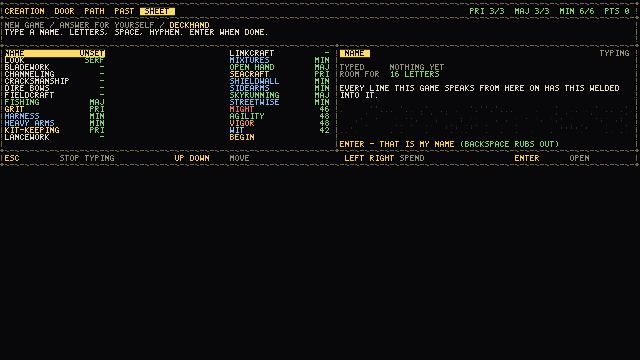
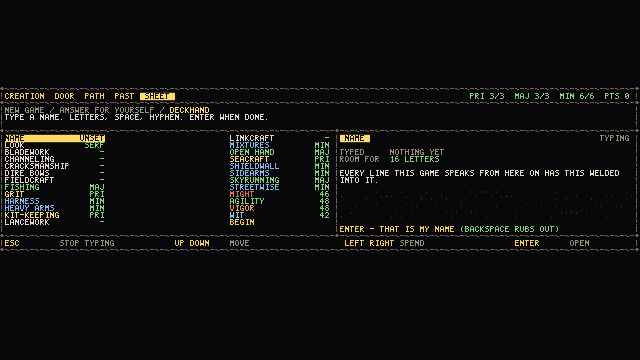
docs: the placement pass, its frames, and the six demo stills that moved
The ruler gains two sections -- where a composed page now SITS, and the
keyboard's own grid -- both measured on the shipped binary at 640x360, which is
the size this file should always have been judged at.

The seat is 45/55 and the three candidates were LOOKED AT rather than reasoned
about. The ground outside these panels is flat, so re-seating the same captured
panel at another ratio is an exact mock of what the binary would draw: 50/50
sits visibly low, 40/60 reads top-heavy, 45/55 reads placed. Both alternatives
are committed beside the frame that was taken.

Two corrections to what the previous ship note predicted, recorded rather than
quietly dropped:

  * the panels did NOT get smaller. The dead space is the same number of
    pixels; it is margin on both sides now instead of a hole underneath.
  * the tight grid did NOT shorten the NAME page. Its height is set by the
    detail pane, about nine rows, and the grid was never the tall half.

Six demo stills moved and every one is a page this pass re-seated -- the two
casebook frames and four creation steps. The other sixteen are byte-identical
across two capture runs that are themselves byte-identical to each other.

creation-origin.png dropped for the ninth run in a row and was re-taken through
--creation=origin instead. The substitution is now PROVEN rather than assumed:
the stale committed frame is byte-for-byte what --creation=origin produced on
the old binary, so the two paths photograph the same composition.

diff --git a/docs/SHIP-NOTE.md b/docs/SHIP-NOTE.md
@@ -1,5 +1,12 @@
 # Ship note — read this first
 
+**The placement pass (this program) is NOT ship-gated yet.** Two moves landed
+against a green docker half (`100% tests passed, 0 tests failed out of 75`, run
+per item) and the demo was re-captured twice, byte-identical; the Windows half
+(`scripts\verify-windows.ps1`) has not been run since. Everything below the
+"What the placement pass moved" section is the previous program's ship note and
+its numbers still stand except where that section corrects them.
+
 Gate: **green, both halves**, revision `581d8fe`.
 World hash: **byte-identical** to where this program started.
 Demo: **run twice, watched, exit 0 both times.** Capture is deterministic.
@@ -185,19 +192,17 @@ the honest change is *from* "the first screen is two-thirds empty" *to* "the
 first screen is a dense panel with a dead black half under it." That is a real
 improvement in legibility and a lateral move in whether it looks finished.
 
-What a stranger sees in the first sixty seconds, now:
+What a stranger sees in the first sixty seconds, **after the placement pass**:
 
 1. **THE DOOR.** A tight, well-set terminal panel — breadcrumb, five numbered
-   doors, an inverted fill, a detail pane, a nav row. It occupies the **top
-   45.6% of the screen and the bottom 53.9% is black.** Nothing is wrong with
-   the panel. The frame is unbalanced: 2px of margin above and 194px below
-   reads as a panel that ran out, not as a window that was placed.
-2. **THE NAME**, if they are on a pad. The keyboard grid is functional and
-   tested, but at 640x360 the six columns are spread by the shared list rule
-   across the full pane, so it reads as five sparse vertical strings rather
-   than a keyboard block — and **63.6% of the frame is dead beneath it.** This
-   is the worst-composed screen in the build and it is on the critical path for
-   every controller player.
+   doors, an inverted fill, a detail pane, a nav row — **and it now sits in the
+   frame rather than hanging off the top of it**: 87px above, 109px below,
+   which is the seat and not an accident. It reads as a window that was placed.
+   ~~2px of margin above and 194px below.~~
+2. **THE NAME**, if they are on a pad. **Now a keyboard block**: ten across by
+   three down, keys one cell apart, the rub-out at the bottom right. It was
+   six one-glyph columns on a ten-cell stride, which read as five sparse
+   vertical strings. It is no longer the worst-composed screen in the build.
 3. **The casebook, pushed at them.** A new game opens the world **with the
    casebook already up** — verified, no input, 3.5s after the world window
    opens. It holds **one lead** in a pane whose floor is 20 rows, so the master
@@ -207,30 +212,139 @@ What a stranger sees in the first sixty seconds, now:
    compass ribbon, named buildings, `E - TALK` over a passing serf, a 3.5%-ink
    HUD. **The ward map is excellent** and fills its frame.
 
-So: the world holds up, the map holds up, the demo holds up. The **framing** of
-the full-screen pages does not, and those are still the first two things anyone
-touches. Add the tiled Menu, where `THE LETTERS` is a quarter-screen panel with
-a header and **nothing in it at all**, and the build still has surfaces that
-read as unfinished on first contact.
+So: the world holds up, the map holds up, the demo holds up, **and the framing
+of the full-screen pages now holds up too** — that was the standing complaint
+against the first two things anyone touches, and it is answered. What is left on
+first contact is not layout at all. It is **emptiness**: one lead in the
+casebook's master pane, `THE LETTERS` a quarter-screen panel with a header and
+nothing in it, `THE CHART` with three rows. A well-placed frame around an empty
+pane still reads as unfinished, and no further layout work will change that —
+which is exactly what item 3 below is for, and why it is now the first thing.
 
-Not near ready. Closer than it was, and closer in the right places.
+Still not near ready. Closer than it was, and the reason has moved from how the
+pages are composed to what is written in them.
+
+## What the placement pass moved
+
+Two of the three items below, in the order they are listed. Each gated on its
+own (`docker compose run --rm --build build`, ~150s of test time each) and
+committed as it went green.
+
+### 1. The composed page is placed, not pinned — `24fa403`
+
+Sprint 1 of the last program taught these pages to STOP at their content and
+never told them where to SIT, so they hung off the top edge with 2px above and a
+hole underneath. `panelSeatY()` in `render/panel.hpp` is now the one place that
+decides, shared by `creation_page.cpp` and `casebook_page.cpp`.
+
+**Not a true half.** `kPanelSeatAbove` is 45 — a box of type centred by
+arithmetic reads LOW. All three splits were looked at as frames at 640x360
+(`docs/frames/placement/seat-*.png`): 50/50 sits visibly low, 40/60 reads
+top-heavy with the foot floating, 45/55 reads placed.
+
+| surface at 640x360 | above / below, before | after |
+|---|---|---|
+| THE DOOR / THE VERDICT / the review / THE SHEET | 2 / 194 | **87 / 109** |
+| the quiz | 2 / 180 | **81 / 101** |
+| THE CALLING | 2 / 166 | **74 / 94** |
+| YOUR PAST | 2 / 173 | **77 / 98** |
+| GABRI's sheet | 2 / 222 | **100 / 124** |
+| THE NAME (on-screen keyboard) | 2 / 229 | **103 / 128** |
+| the casebook, new game | 2 / 159 | **71 / 90** |
+| the ward map, the controls page | 0 / 0 | **0 / 0 — untouched** |
+
+The two full-frame pages are untouched **by construction and not by a special
+case**: they compose at full height, so their spare is the two or three pixels
+that do not divide into whole cells and `panelSeatY()` returns what the old
+expression did. Both are byte-identical across the change. Nothing on these
+pages anchors to the frame's edges — the ground is filled whole-frame and the
+border encloses only the composition — so there was nothing for the seat to
+collide with, and the mouse moved with the drawing because both read the one
+layout.
+
+**Say the honest thing about the panels themselves: none of them got smaller.**
+The dead space is the same number of pixels. What changed is that it is margin
+on both sides instead of a hole underneath.
+
+### 2. The on-screen keyboard gets its own grid — `c85622c`
+
+It was thirty rows of an option list capped at six columns, so it inherited
+`planOptionList`'s **spread** rule and came out at 640x360 as six one-glyph keys
+on a **ten-cell stride** — five sparse vertical strings.
+
+`render/panel.hpp` gains a **key grid** beside the option list and the block
+list: `planKeyGrid` / `drawKeyGrid` / `keyGridAt`, the same three-function shape
+the other two have. The rule that differs is one line — **the advance is the
+widest a key can afford, not the pane divided by the columns.**
+
+| at 640x360 | before | after |
+|---|---|---|
+| grid | 6 x 5 | **10 x 3** |
+| column stride | 10 cells (50px), against 7px rows | **2 cells (10px)** |
+| the block | 195 x 21 px | **95 x 21 px** |
+| the master pane | 42% of the body | **28%** |
+
+Padding is **zero** and that was measured: a padded cap doubles the advance on a
+one-glyph grid and puts the columns twenty pixels apart, which is the same
+defect one notch milder.
+
+**And the transpose is gone.** A key grid reads across by construction, so
+`pageForOsk()` no longer reorders its cells into column-major draw order, the
+cursor index IS the grid position, and `main.cpp`'s inverse transpose for the
+mouse went with them — three expressions that had to stay identical, down to
+none.
+
+**Every input path driven, not asserted.** A real `SDL_AttachVirtualJoystick`
+through `--padcreation` spelled a name on the new grid one D-pad move and one A
+press per letter, committed with START, walked the twelve questions and reached
+`granadad: playing as ABC (custom)`. The mouse hit-test is walked **cell by
+cell** at three window sizes, because one that still thought the grid was
+column-major would answer correctly for the first cell and wrongly for the other
+twenty-nine. A real keystroke still closes the grid on its way to the name, so
+somebody typing is never routed through it. `--creation=input-keyboard`, `-pad`
+and `-mouse` are still byte-identical to each other.
+
+**What it did NOT buy, against the note below's guess:** the frame is not
+shorter. The NAME page's height is set by its DETAIL pane (about nine rows), not
+by the grid, so three rows instead of five bought nothing. 129px before and
+after.
+
+### The demo
+
+Two `--demo-capture` runs, **22 frames each, byte-identical to each other**.
+`5780 frame(s), body ended at (150,63,z19)`, exit 0.
+
+Six committed frames moved and every one of them is a page this pass re-seated:
+`case-book.png`, `case-book-harls.png`, `creation-name.png`, `creation-quiz.png`,
+`creation-quiz-answered.png`, `creation-sheet.png`. The other sixteen are
+byte-identical — the world, the map, the night, the end card, all untouched.
+
+`creation-origin.png` **dropped for the ninth run in a row** (the shutter race
+below), so it was re-taken through `--creation=origin` at 640x360 instead. That
+substitution is exact and now proven rather than assumed: the stale committed
+frame is byte-for-byte the frame `--creation=origin` produced on the OLD binary
+(sha256 `b6a7516a...`), so the two paths photograph the same composition.
+
+### The world hash
+
+Not touched, and not touchable by this pass: `git diff --name-only` across both
+commits reaches only `native/` and `docs/`. No map, no `content/art`, no golden
+re-blessed.
 
 ## The three things I would do next, in order
 
-1. **Centre the composed panel in the frame.** Sprint 1 taught these pages to
-   stop at their content; nobody told them where to sit. Splitting the 194px of
-   dead space 97 above / 97 below turns "ran out" into "placed", on every
-   creation step and the casebook, for one change in one place. It is the
-   cheapest first-impression win left in the build by a wide margin.
-2. **Give the on-screen keyboard its own tight grid**, instead of borrowing
-   `planOptionList`'s spread rule. A keyboard is a block, not a spaced list.
-   Same change also lets the pane be narrower and the frame shorter, which
-   makes (1) worth more.
+1. ~~**Centre the composed panel in the frame.**~~ **DONE** — `24fa403`, seated
+   45/55 rather than the 97/97 this line guessed at, because 50/50 reads low.
+2. ~~**Give the on-screen keyboard its own tight grid.**~~ **DONE** — `c85622c`.
+   The "lets the frame be shorter" half of this line was wrong: the detail pane
+   sets that page's height, not the grid.
 3. **Write empty states for the three panes that ship empty** — the casebook's
    lead list on a new game, the tiled Menu's `THE LETTERS`, and `THE CHART`
    with three rows. This is content, not layout, and the previous program was
    right that layout cannot fix it. One written line each ("NOTHING HAS COME
    FOR YOU YET") costs nothing and removes the last "unfinished" tell.
+   **Still open, and now the first thing a stranger meets that is wrong** — the
+   framing complaint above it is answered.
 
 ## Still open, and why
 

diff --git a/docs/HUD-REAL-ESTATE.md b/docs/HUD-REAL-ESTATE.md
@@ -820,3 +820,115 @@ the number that decides whether a page looks placed or looks like it ran out:
 
 The map row is the benchmark: same vocabulary, same size, fills its frame at
 nearly three times the ink of any page above it.
+
+## The placement pass: where the composed page SITS
+
+Sprint 1 of the last program taught these pages to STOP at their content and
+never told them where to START, so every one of them hung off the top edge with
+two pixels of margin above it. The ship note's own words for it were that THE
+DOOR "reads as a panel that *ran out*, not one that was *placed*."
+
+`panelSeatY()` in `render/panel.hpp` is now the one place that decides, read by
+`creation_page.cpp` and `casebook_page.cpp` alike. It is **not** a true half:
+`kPanelSeatAbove` is 45, so the spare goes 45 above and 55 below.
+
+**That number came off frames, not off arithmetic.** The ground outside these
+panels is flat, so the same captured panel re-seated at another ratio is an
+exact mock of what the binary would draw, and all three were looked at at
+640x360:
+
+| split | above / below on THE DOOR | how it reads |
+|---|---|---|
+| 50 / 50 | 97 / 97 | sits visibly LOW — the optical centre of a box of type is above its geometric one |
+| **45 / 55** | **87 / 109** | **placed** |
+| 40 / 60 | 77 / 117 | top-heavy; the foot floats and the gap under it reads as a page that stopped |
+
+Measured on the shipped binary, at 640x360, above/below in pixels:
+
+| surface at 640x360 | panel | above | below | ink in panel |
+|---|---|---|---|---|
+| creation — THE DOOR | 164px (45.6%) | **87px** | **109px (30.3%)** | 8.85% |
+| creation — THE CALLING | 192px (53.3%) | 74px | 94px (26.1%) | 9.19% |
+| creation — the quiz | 178px (49.4%) | 81px | 101px (28.1%) | 13.69% |
+| creation — THE VERDICT | 164px (45.6%) | 87px | 109px (30.3%) | 9.18% |
+| creation — YOUR PAST | 185px (51.4%) | 77px | 98px (27.2%) | 10.72% |
+| creation — the review | 164px (45.6%) | 87px | 109px (30.3%) | 10.04% |
+| creation — THE SHEET | 164px (45.6%) | 87px | 109px (30.3%) | 10.94% |
+| creation — GABRI's sheet | 136px (37.8%) | 100px | 124px (34.4%) | 10.16% |
+| creation — THE NAME (on-screen keyboard) | 129px (35.8%) | 103px | 128px (35.6%) | 8.13% |
+| casebook, new game | 199px (55.3%) | 71px | 90px (25.0%) | 10.20% |
+| the ward map | 360px (100%) | 0px | 0px | 44.17% |
+| the controls page | 360px (100%) | 0px | 0px | 6.97% |
+
+**The pages that already fill the frame are untouched, and by construction
+rather than by a special case**: the map and the controls page compose at full
+height, so their spare is the two or three pixels that do not divide into whole
+cells and `panelSeatY()` returns exactly what the old expression did. Both are
+byte-identical across the change.
+
+**Read the "below" column against the old one.** Nothing here got smaller — the
+panels are the same heights they were. What moved is that the dead space is now
+*margin on both sides* instead of *a hole underneath*, and that is the whole
+difference between a window and a page that ran out.
+
+## The keyboard's own grid
+
+`THE NAME` was the worst-composed screen in the build and it is on the critical
+path for every controller player. The grid was thirty rows of an option list
+capped at six columns, so it inherited `planOptionList`'s **spread** rule — the
+one that makes the last column of a pane end at its right edge, which is right
+for four callings and wrong for thirty letters.
+
+| at 640x360 | before | after |
+|---|---|---|
+| grid | 6 columns x 5 rows | **10 x 3** |
+| column stride | **10 cells (50px)**, against 7px rows | **2 cells (10px)** |
+| the block | 195 x 21 px | **95 x 21 px** |
+| the master pane's share | 42% of the body | **28%** |
+| what it reads as | five sparse vertical strings | a keyboard block |
+
+`render/panel.hpp` gains a **key grid** beside the option list and the block
+list — same three-function shape (`planKeyGrid` / `drawKeyGrid` / `keyGridAt`),
+so the mouse stays the inverse of the drawing rather than a second description
+of it. The one rule that differs is the advance: **the widest a key can afford,
+not the pane divided by the columns.**
+
+Padding is zero, and that was measured too: a padded cap (` A `) doubles the
+advance on a one-glyph grid and puts the columns twenty pixels apart against
+seven-pixel rows, which is the same defect one notch milder. Frames of both said
+so.
+
+**The frame did not get shorter and the ship note guessed that it would.** The
+NAME page's height is set by its DETAIL pane — badge, two facts, a paragraph and
+the commit verb, about nine rows — not by the grid, so dropping the grid from
+five rows to three bought nothing in height. The panel is 129px before and
+after. What the tight grid bought is the master pane's width (42% -> 28%) and a
+block that reads as a keyboard.
+
+**320x180 is the one window that pays.** `splitMasterDetail` floors the master
+pane at eighteen cells and ten keys with a gap between them want nineteen, so
+the smallest window the game runs at spends the gap and sets the alphabet
+shoulder to shoulder. That is the honest answer there: the alternative is
+drawing fewer columns than the cursor walks, and then the inverted fill names a
+different letter than the detail pane does.
+
+### The frames
+
+`docs/frames/placement/`, all at 640x360 with `--scale=1` except where the name
+says otherwise:
+
+```
+before-door-640.png      after-door-640.png
+before-name-640.png      after-name-640.png
+before-casebook-640.png  after-casebook-640.png
+seat-50-50-door-640.png  seat-40-60-door-640.png   the two seats not taken
+after-name-320.png       after-name-1920.png       the grid at both ends
+pad-spelling-640.png     pad-named-begin-640.png   a virtual pad, mid-name and done
+```
+
+The two pad frames are a real `SDL_AttachVirtualJoystick` through
+`--padcreation`, not a mock: `pad-spelling-640.png` is `ABC` being taken off the
+new grid one D-pad move and one A press per letter with the detail pane naming
+`THE LETTER C`, and `pad-named-begin-640.png` is the sheet afterwards with
+`NAME ABC` and `BEGIN` gone `READY`. The run that follows them reaches
+`granadad: playing as ABC (custom)`.
